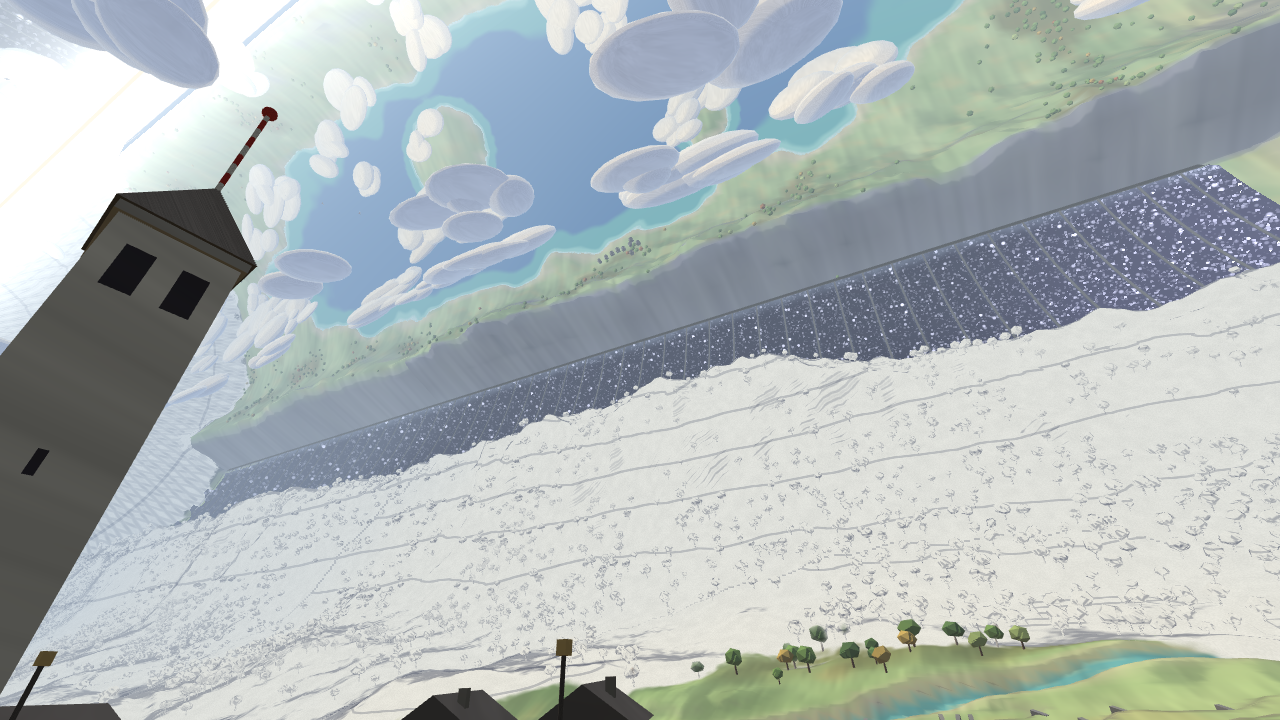
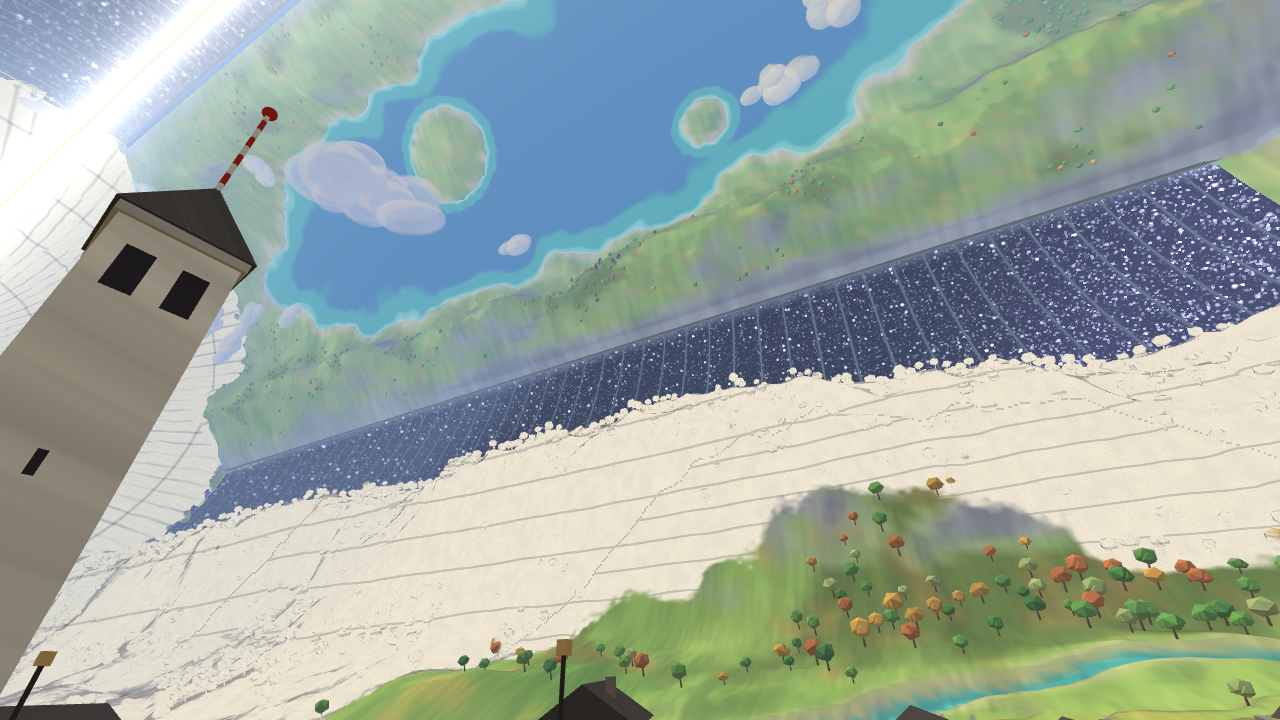
Cielo di Terra: istantanea del lavoro in corso
Claude-Session: https://claude.ai/code/session_016L3mhZfM8m5LnzdjzNNuFY

diff --git a/cielo-di-terra/moduli/ui/src/pianta/disegno.ts b/cielo-di-terra/moduli/ui/src/pianta/disegno.ts
@@ -91,6 +91,7 @@ export class PittorePianta {
   private contornoInchiostro: Float32Array = new Float32Array(0);
   private contornoCambiate: Float32Array = new Float32Array(0);
   private strato: HTMLCanvasElement = nuovoCanvas(1, 1);
+  private stratoMaschera: HTMLCanvasElement = nuovoCanvas(1, 1);
   private readonly motivi: { carta: CanvasPattern | null; tratteggio: CanvasPattern | null; rosso: CanvasPattern | null; tappo: CanvasPattern | null; grana: CanvasPattern | null };
   private dpr = 1;
   private larghezza = 1;
@@ -140,6 +141,7 @@ export class PittorePianta {
     this.canvas.width = Math.round(this.larghezza * this.dpr);
     this.canvas.height = Math.round(this.altezza * this.dpr);
     this.strato = nuovoCanvas(this.canvas.width, this.canvas.height);
+    this.stratoMaschera = nuovoCanvas(this.canvas.width, this.canvas.height);
   }
 
   /** Nuovi dati: ricostruisce maschere e contorni. */
@@ -360,13 +362,31 @@ export class PittorePianta {
       ctx.restore();
     };
 
+    // Le maschere si compongono prima tutte (una copia per giro visibile) e poi si applicano in una volta:
+    // «destination-in» cancella tutto ciò che sta fuori dall'immagine disegnata.
+    const mascheraComposta = (img: HTMLCanvasElement): HTMLCanvasElement => {
+      const mc = this.stratoMaschera.getContext('2d')!;
+      mc.setTransform(1, 0, 0, 1, 0, 0);
+      mc.clearRect(0, 0, this.stratoMaschera.width, this.stratoMaschera.height);
+      mc.setTransform(this.dpr, 0, 0, this.dpr, MARGINI.sinistra * this.dpr, MARGINI.alto * this.dpr);
+      disegnaMaschera(mc, img);
+      return this.stratoMaschera;
+    };
+    const applicaMaschera = (img: HTMLCanvasElement): void => {
+      const composta = mascheraComposta(img);
+      sc.save();
+      sc.setTransform(1, 0, 0, 1, 0, 0);
+      sc.globalCompositeOperation = 'destination-in';
+      sc.drawImage(composta, 0, 0);
+      sc.restore();
+    };
+
     // 1. Matita: tratteggio di grafite dove la particella è stata vista.
     preparaStrato();
     if (this.motivi.tratteggio) {
       sc.fillStyle = this.motivi.tratteggio;
       sc.fillRect(0, 0, W, H);
-      sc.globalCompositeOperation = 'destination-in';
-      disegnaMaschera(sc, m.matita);
+      applicaMaschera(m.matita);
       versaStrato(opz.contrasto || opz.marcata ? 1 : 0.75);
       if (opz.marcata) versaStrato(0.5);
     }
@@ -391,8 +411,7 @@ export class PittorePianta {
     if (this.motivi.rosso) {
       sc.fillStyle = this.motivi.rosso;
       sc.fillRect(0, 0, W, H);
-      sc.globalCompositeOperation = 'destination-in';
-      disegnaMaschera(sc, m.cambiate);
+      applicaMaschera(m.cambiate);
       versaStrato(0.8);
     }
   }
@@ -568,8 +587,8 @@ export class PittorePianta {
         const y = yT(f.theta0 + amp / 2 + k);
         if (f.tipo === 'valle') {
           ctx.font = `400 ${corpoValle}px "IM Fell English SC", "EB Garamond", serif`;
-          ctx.fillStyle = 'rgba(42, 35, 28, 0.78)';
-          this.testoConAlone(spaziato(f.nome, corpoValle > 22 ? 3 : 2), xc, y, 'rgba(241, 232, 210, 0.85)', 6);
+          ctx.fillStyle = 'rgba(42, 35, 28, 0.62)';
+          this.testoConAlone(spaziato(f.nome, corpoValle > 22 ? 3 : 2), xc, y, 'rgba(241, 232, 210, 0.7)', 6);
           if (f.breve) {
             ctx.font = `italic 400 ${Math.round(corpoValle * 0.62)}px "EB Garamond", serif`;
             ctx.fillStyle = 'rgba(42, 35, 28, 0.7)';
@@ -684,7 +703,7 @@ export class PittorePianta {
   private disegnaLanterna(H: number, xZ: (z: number) => number, larg: number): void {
     const { ctx } = this;
     const x = xZ(LUNGHEZZA_Z) + larg / 2;
-    const y = H * 0.18;
+    const y = Math.max(30, H / 2 - 200);
     ctx.save();
     ctx.fillStyle = '#fbf7ec';
     ctx.strokeStyle = COLORI.inchiostro;

diff --git a/cielo-di-terra/moduli/ui/src/pianta/geometria.ts b/cielo-di-terra/moduli/ui/src/pianta/geometria.ts
@@ -24,14 +24,14 @@ export interface FasciaPianta {
   tipo: TipoFascia;
 }
 
-/** Le tre valli e le tre Finestre del Verbano (costanti del motore). */
+/** Le tre valli e le tre Finestre del Verbano (costanti del motore; nomi dal GDD §2.4). */
 export const FASCE_VERBANO: readonly FasciaPianta[] = [
   { nome: 'Corbella e le Selve', breve: 'Valle 1', theta0: 0, theta1: 90, tipo: 'valle' },
   { nome: 'Finestra dei Ponti', theta0: 90, theta1: 120, tipo: 'finestra' },
   { nome: 'Il Verbanetto', breve: 'Valle 2', theta0: 120, theta1: 210, tipo: 'valle' },
-  { nome: 'Seconda Finestra', theta0: 210, theta1: 240, tipo: 'finestra' },
+  { nome: 'Finestra Cieca', theta0: 210, theta1: 240, tipo: 'finestra' },
   { nome: 'Gli Alpeggi', breve: 'Valle 3', theta0: 240, theta1: 330, tipo: 'valle' },
-  { nome: 'Terza Finestra', theta0: 330, theta1: 360, tipo: 'finestra' },
+  { nome: 'Finestra delle Vedove', theta0: 330, theta1: 360, tipo: 'finestra' },
 ];
 
 /** Porta un angolo in [0, 360). */
@@ -102,13 +102,19 @@ export function scalaIntera(larghezzaUtile: number): number {
   return Math.max(0.01, larghezzaUtile / LUNGHEZZA_Z);
 }
 
+/** Scala minima: tutto il giro (360°) nell'altezza utile, o tutto il cilindro in larghezza se è più piccola. */
+export function scalaMinima(larghezzaUtile: number, altezzaUtile?: number): number {
+  const sL = scalaIntera(larghezzaUtile);
+  return altezzaUtile ? Math.min(sL, Math.max(0.01, altezzaUtile / CIRCONFERENZA)) : sL;
+}
+
 /**
  * Tiene la vista dentro limiti sensati: z del centro fra i due Tappi (con un po' di margine se si è ingranditi),
- * scala fra quella intera e 8 volte tanto. θ resta libero (la Pianta si chiude su sé stessa).
+ * scala fra «tutto il giro» e 8 volte la scala intera. θ resta libero (la Pianta si chiude su sé stessa).
  */
-export function limitaVista(v: Vista, larghezza: number, larghezzaUtile: number): Vista {
-  const sMin = scalaIntera(larghezzaUtile);
-  const scala = Math.min(sMin * 8, Math.max(sMin, v.scala));
+export function limitaVista(v: Vista, larghezza: number, larghezzaUtile: number, altezzaUtile?: number): Vista {
+  const sMin = scalaMinima(larghezzaUtile, altezzaUtile);
+  const scala = Math.min(scalaIntera(larghezzaUtile) * 8, Math.max(sMin, v.scala));
   const meta = larghezza / 2 / scala;
   const margine = (larghezza - larghezzaUtile) / 2 / scala;
   const zMin = Math.min(LUNGHEZZA_Z / 2, meta - margine);

diff --git a/cielo-di-terra/moduli/ui/src/componenti/pianta.ts b/cielo-di-terra/moduli/ui/src/componenti/pianta.ts
@@ -1,6 +1,6 @@
 import { Componente } from '../core/componente';
 import { h, s } from '../core/dom';
-import { FASCE_VERBANO, LUNGHEZZA_Z, fasciaDi, limitaVista, normalizzaGradi, scalaIntera, type Vista } from '../pianta/geometria';
+import { FASCE_VERBANO, LUNGHEZZA_Z, fasciaDi, limitaVista, normalizzaGradi, scalaIntera, scalaMinima, type Vista } from '../pianta/geometria';
 import { PittorePianta } from '../pianta/disegno';
 import { nomeCatastale, type DatiPianta, type ParticellaPianta } from '../pianta/modello';
 import './pianta.css';
@@ -199,8 +199,10 @@ export class PiantaVerbano extends Componente<EventiPianta> {
         return true;
       case '0':
       case 'Home':
-        this.vistaIntera();
-        this.centraSuElvira(false);
+        // Alterna «tutto il giro» e «tutto il cilindro in larghezza».
+        if (Math.abs(this.vista.scala - scalaMinima(this.pittore.larghezzaUtile, this.pittore.altezzaRegione)) < 1e-6) this.vistaIntera();
+        else this.vista = { ...this.vista, zc: LUNGHEZZA_Z / 2, scala: scalaMinima(this.pittore.larghezzaUtile, this.pittore.altezzaRegione) };
+        this.limita();
         this.ridisegna();
         return true;
       default:
@@ -280,7 +282,7 @@ export class PiantaVerbano extends Componente<EventiPianta> {
   private centraSuElvira(animato: boolean): void {
     const e = this.dati.elvira;
     if (!e) return;
-    const intera = Math.abs(this.vista.scala - scalaIntera(this.pittore.larghezzaUtile)) < 1e-6;
+    const intera = this.vista.scala <= scalaIntera(this.pittore.larghezzaUtile) + 1e-6;
     this.vista = { ...this.vista, zc: intera ? this.vista.zc : e.z, tc: this.tVicino(e.theta) };
     this.limita();
     if (animato) this.ridisegna();
@@ -317,7 +319,7 @@ export class PiantaVerbano extends Componente<EventiPianta> {
     // Tiene θ del centro vicino a [0, 360) senza cambiare ciò che si vede.
     const tc = this.vista.tc;
     const giri = Math.floor(tc / 360);
-    this.vista = limitaVista({ ...this.vista, tc: tc - giri * 360 }, this.pittore.larghezzaRegione, this.pittore.larghezzaUtile);
+    this.vista = limitaVista({ ...this.vista, tc: tc - giri * 360 }, this.pittore.larghezzaRegione, this.pittore.larghezzaUtile, this.pittore.altezzaRegione);
   }
 
   /** Ridisegna la Pianta al prossimo fotogramma (es. dopo un cambio di impostazioni). */
